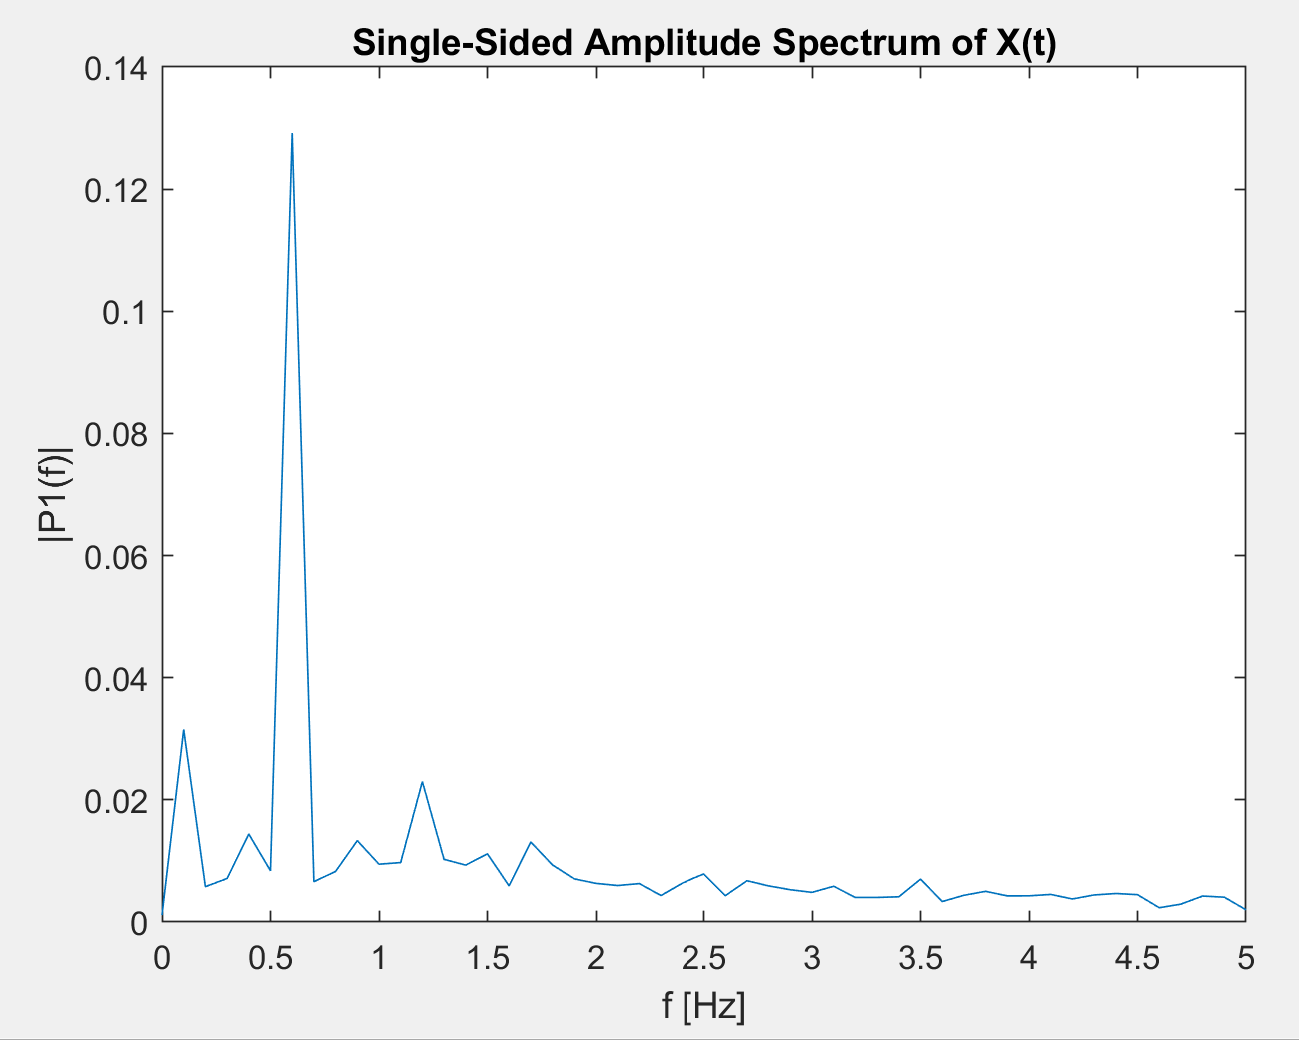
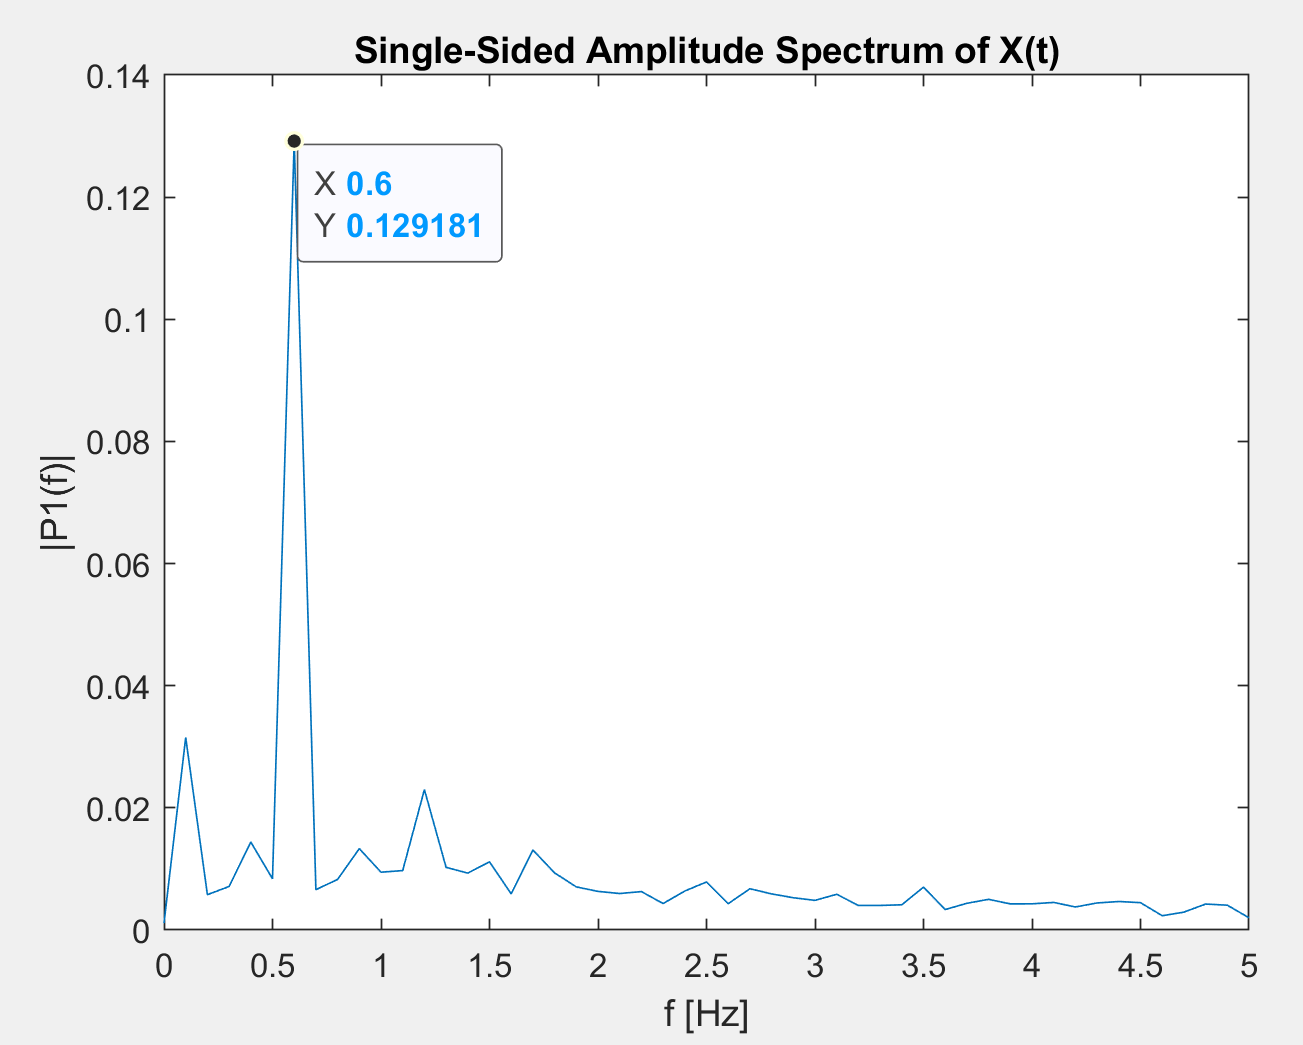
correction of the Matlab analysis

diff --git a/Laboratorio 15_11_22/TextFiles/Laboratorio.tex b/Laboratorio 15_11_22/TextFiles/Laboratorio.tex
@@ -31,10 +31,10 @@ Inoltre, è possibile visualizzare graficamente i dati scritti sulla porta seria
 	\label{fig:serial_plotter}
 \end{figure}
 
-Successivamente è stato utilizzato Matlab per analizzare le misure dell'accelerometro ottenute con l'Arduino. In particolare è stato considerato un set di dati generati effettuando movimenti dell'Arduino lungo l'asse x con un tempo di campionamento di circa \SI{100}{m\second} (in figura \ref{fig:plot_dati}).
+Successivamente è stato utilizzato Matlab per analizzare le misure dell'accelerometro ottenute con Arduino. In particolare questi dati sono stati generati muovendo Arduino lungo l'asse x con un tempo di campionamento di \SI{100}{m\second} (in figura \ref{fig:plot_dati}).
 \begin{figure}[tbh]
 	\centering		\includegraphics[width=7cm]{./ImageFiles/plot1_arr2.png}
-	\caption{Grafico del set di dati analizzato con un tempo di campionamento di circa \SI{100}{m\second}.}
+	\caption{Grafico del set di dati.}
 	\label{fig:plot_dati}
 \end{figure}
 
@@ -47,15 +47,19 @@ Innanzitutto per l'implementazione del filtro digitale è stato utilizzato il co
 	\label{fig:plot_dati_filt}
 \end{figure}
 
-Successivamente per determinare il valore della frequenza desiderata, abbiamo utilizzato due metodi.
+In seguito per determinare il valore della frequenza desiderata, sono stati utilizzati due metodi.
 
-Il primo prevede di calcolare i picchi presenti nel segnale. Per fare ciò sono stati utilizzati i comandi \textit{gradient} e \textit{diff} di Matlab, che consentono di determinare rispettivamente il gradiente e le differenze tra i gradienti di dati adiacenti in modo da valutare come la pendenza del segnale cambia segno con lo scopo di rilevare il numero dei picchi presenti nel segnale.
+Il primo prevede di calcolare i picchi presenti nel segnale. Quindi sono stati utilizzati i comandi \textit{gradient} e \textit{diff} di Matlab, che consentono di determinare rispettivamente il gradiente e le differenze tra i gradienti di dati adiacenti e perciò di valutare come la pendenza del segnale filtrato (denominato filt) cambia segno con lo scopo di rilevare il numero dei picchi presenti nel segnale.
+\lstinputlisting[language=Matlab]{./OtherFiles/metodo1.m}
 
-Il secondo metodo, invece, prevede di considerare la Trasformata di Fourier con il comando \textit{fft} di Matlab ponendo una frequenza di campionamento pari a \SI{10}{\hertz}.
+La frequenza risultante dall'applicazione del precedente metodo è pari a \SI{0.6}{\hertz} per ciascuna componente dei dati.
+
+Il secondo metodo, invece, considera la Trasformata di Fourier con il comando \textit{fft} di Matlab ponendo una frequenza di campionamento pari a \SI{10}{\hertz}.
+\lstinputlisting[language=Matlab]{./OtherFiles/metodo2.m}
+
+Nella figura \ref{fig:plot_fft} viene messa in evidenza la frequenza principale del segnale filtrato, che risulta essere anche in questo caso pari a \SI{0.6}{\hertz}.
 \begin{figure}[tbh]
 	\centering		\includegraphics[width=7cm]{./ImageFiles/plot2_arr2.png}
 	\caption{Grafico della Trasformata di Fourier del set di dati filtrato.}
 	\label{fig:plot_fft}
 \end{figure}
-
-In entrambi i metodi (come si può notare anche dalla figura \ref{fig:plot_fft} relativa al plot ottenuto applicando il secondo metodo) è stata ottenuta una frequenza pari a \SI{0.6}{\hertz}.

diff --git a/Laboratorio 15_11_22/OtherFiles/accelerometer.m b/Laboratorio 15_11_22/OtherFiles/accelerometer.m
@@ -1,14 +1,14 @@
-s = serial('COM7','BAU',115200,'terminator','LF');
-fopen(s);
-
-arr2 = nan(100,3);
-
-for i=1:100
-    arr2(i,:) = fscanf(s,'%f %f %f');
-    pause(0.1);
-end
-
-fclose(s);
+% s = serial('COM7','BAU',115200,'terminator','LF');
+% fopen(s);
+% 
+% arr2 = nan(100,3);
+% 
+% for i=1:100
+%     arr2(i,:) = fscanf(s,'%f %f %f');
+%     pause(0.1);
+% end
+% 
+% fclose(s);
 
 %%
 t=0:1:length(arr2)-1;

diff --git a/Laboratorio 15_11_22/OtherFiles/metodo2.m b/Laboratorio 15_11_22/OtherFiles/metodo2.m
@@ -1,0 +1,11 @@
+Fs = 10;
+T = 1/Fs;
+
+tfft = (0:length(filt)-1)*T;
+
+Y = fft(filt(:,3));
+P2 = abs(Y/length(filt));
+P1 = P2(1:length(filt)/2+1);
+P1(2:end-1) = 2*P1(2:end-1);
+
+f = Fs*(0:(length(filt)/2))/length(filt);

diff --git a/Laboratorio 15_11_22/OtherFiles/metodo1.m b/Laboratorio 15_11_22/OtherFiles/metodo1.m
@@ -1,0 +1,1 @@
+freq = sum(diff(gradient(filt)>0)==-1,1)./10
